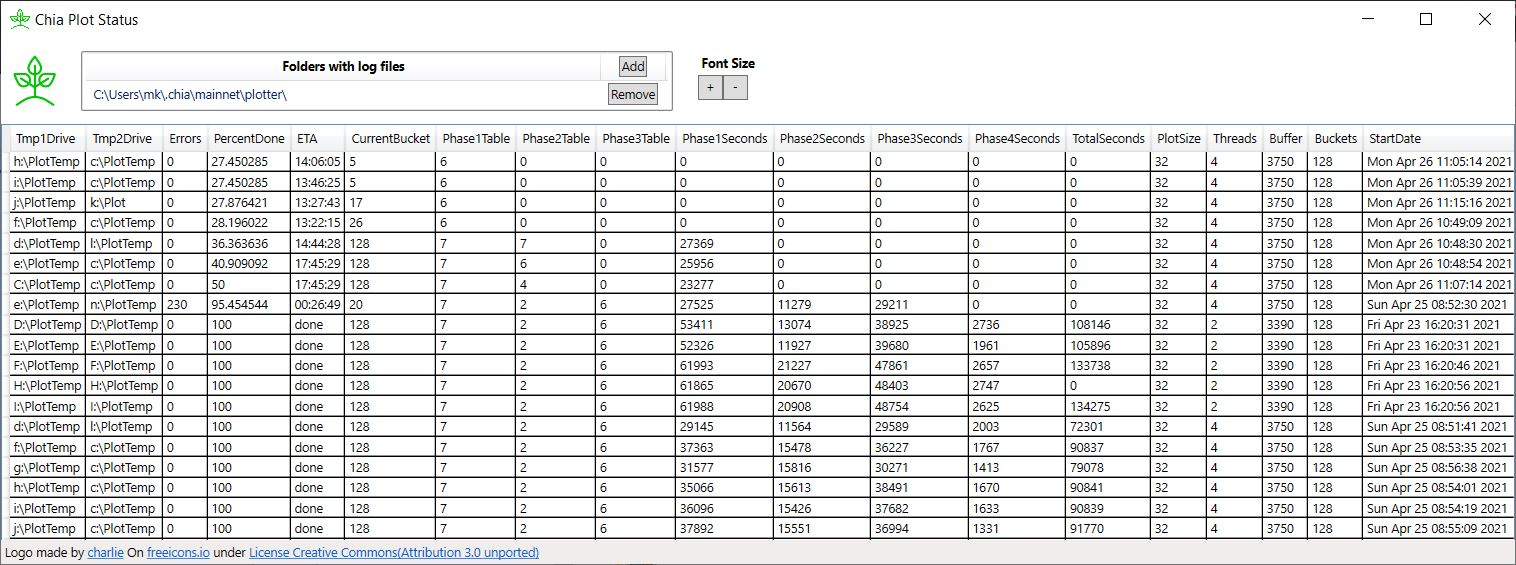
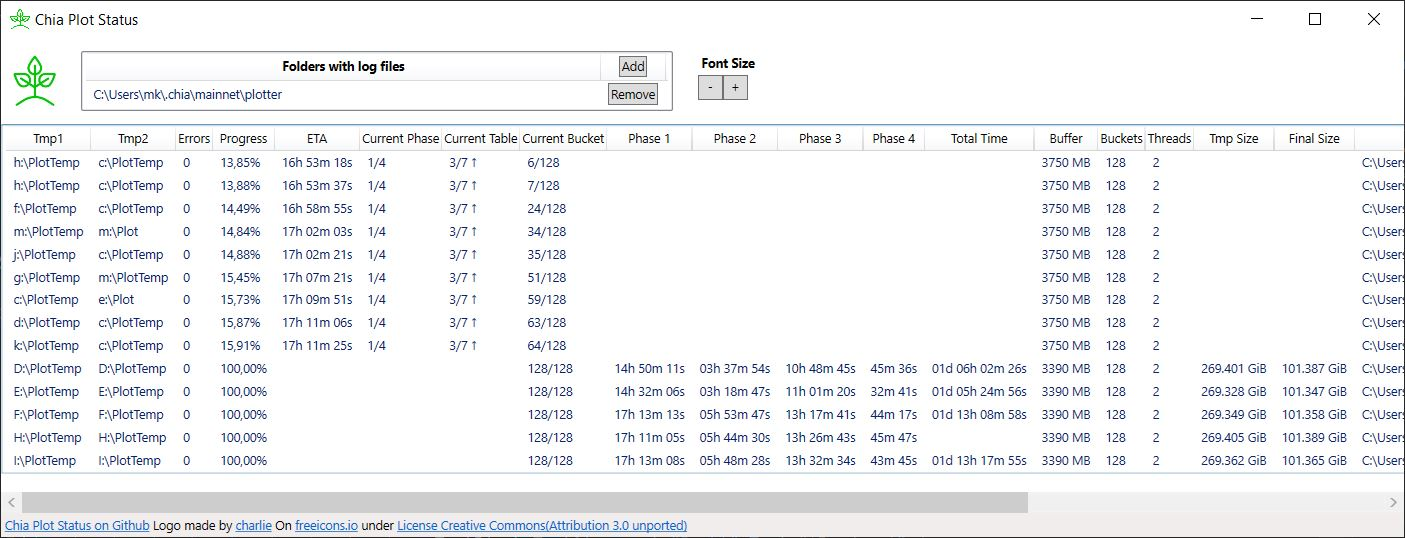
Screenshot updated, Column order in main table changed

Changed region(s): [[0.0, 0.0892, 1.0, 1.0], [0.0, 0.0, 0.0918, 0.0595]]

diff --git a/MainWindow.xaml b/MainWindow.xaml
@@ -197,20 +197,6 @@
                                     </DataTemplate>
                                 </GridViewColumn.CellTemplate>
                             </GridViewColumn>
-                            <GridViewColumn Width="Auto" DisplayMemberBinding="{Binding Path=LogFolder}" Header="Log Folder">
-                                <GridViewColumn.CellTemplate>
-                                    <DataTemplate>
-                                        <TextBlock TextAlignment="Left" Text="{Binding}" />
-                                    </DataTemplate>
-                                </GridViewColumn.CellTemplate>
-                            </GridViewColumn>
-                            <GridViewColumn Width="Auto" DisplayMemberBinding="{Binding Path=LogFile}" Header="Log File">
-                                <GridViewColumn.CellTemplate>
-                                    <DataTemplate>
-                                        <TextBlock TextAlignment="Left" Text="{Binding}" />
-                                    </DataTemplate>
-                                </GridViewColumn.CellTemplate>
-                            </GridViewColumn>
                             <GridViewColumn Width="Auto" DisplayMemberBinding="{Binding Path=ApproximateWorkingSpace}" Header="Tmp Size">
                                 <GridViewColumn.CellTemplate>
                                     <DataTemplate>
@@ -222,6 +208,20 @@
                                 <GridViewColumn.CellTemplate>
                                     <DataTemplate>
                                         <TextBlock TextAlignment="Right" Text="{Binding}" />
+                                    </DataTemplate>
+                                </GridViewColumn.CellTemplate>
+                            </GridViewColumn>
+                            <GridViewColumn Width="Auto" DisplayMemberBinding="{Binding Path=LogFolder}" Header="Log Folder">
+                                <GridViewColumn.CellTemplate>
+                                    <DataTemplate>
+                                        <TextBlock TextAlignment="Left" Text="{Binding}" />
+                                    </DataTemplate>
+                                </GridViewColumn.CellTemplate>
+                            </GridViewColumn>
+                            <GridViewColumn Width="Auto" DisplayMemberBinding="{Binding Path=LogFile}" Header="Log File">
+                                <GridViewColumn.CellTemplate>
+                                    <DataTemplate>
+                                        <TextBlock TextAlignment="Left" Text="{Binding}" />
                                     </DataTemplate>
                                 </GridViewColumn.CellTemplate>
                             </GridViewColumn>

diff --git a/Logic/PlotLogFile.cs b/Logic/PlotLogFile.cs
@@ -164,7 +164,7 @@ namespace ChiaPlotStatus
         static Regex phase3Table = new Regex("^Compressing tables (\\d+)", RegexOptions.Compiled | RegexOptions.IgnoreCase | RegexOptions.Multiline);
         static Regex tmpFolders = new Regex("^Starting plotting progress into temporary dirs: (.*) and (.*)", RegexOptions.Compiled | RegexOptions.IgnoreCase | RegexOptions.Multiline);
         static Regex writePloblemRg = new Regex("^Only wrote \\d+ of \\d+ bytes at", RegexOptions.Compiled | RegexOptions.IgnoreCase | RegexOptions.Multiline);
-        static Regex approximateWorkingSpace = new Regex("^Approximate working space used (without final file): (\\d+\\.\\d+ .*)", RegexOptions.Compiled | RegexOptions.IgnoreCase | RegexOptions.Multiline);
+        static Regex approximateWorkingSpace = new Regex("^Approximate working space used \\(without final file\\): (\\d+\\.\\d+ .*)", RegexOptions.Compiled | RegexOptions.IgnoreCase | RegexOptions.Multiline);
         static Regex finalFileSize = new Regex("^Final File size: (\\d+\\.\\d+ .*)", RegexOptions.Compiled | RegexOptions.IgnoreCase | RegexOptions.Multiline);
 
         // Approximate working space used (without final file)
